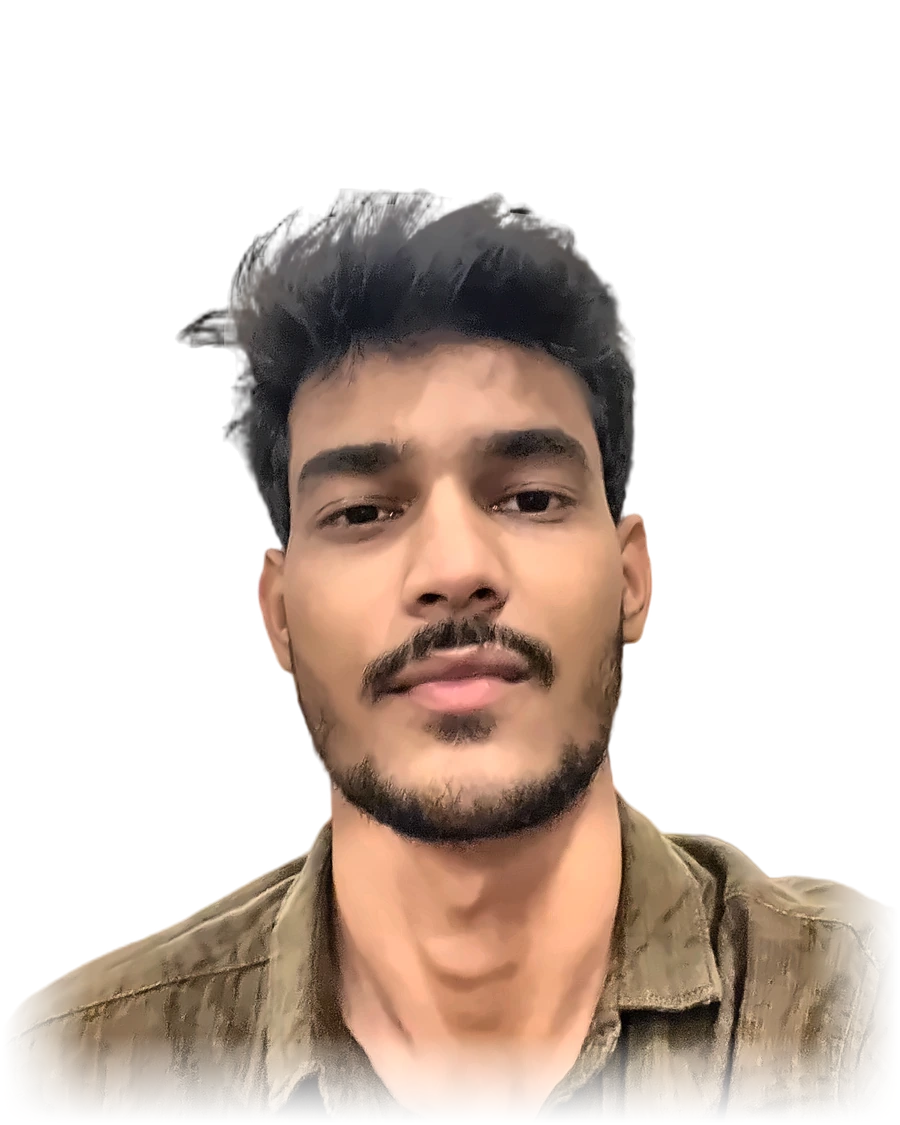
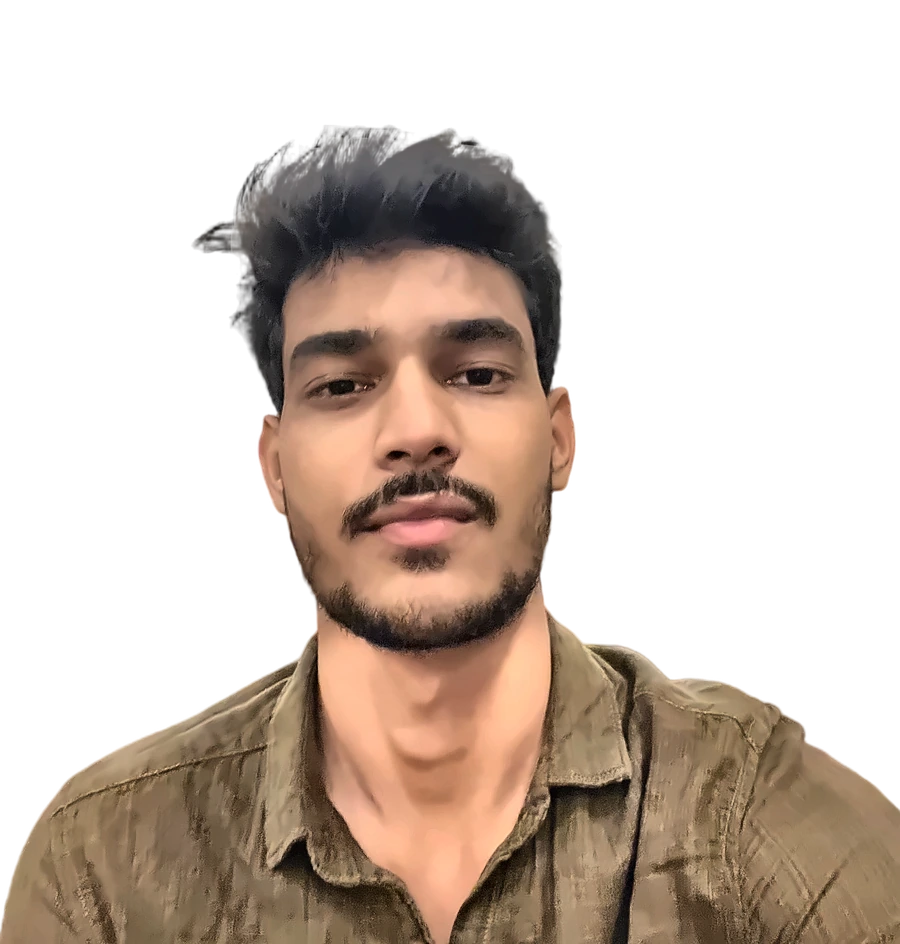
EarthLink on a silver laptop as the top card; plain photo frame
- EarthLink becomes the full-width feature card, showing the Review &
  Pay page from Figma on a 3D silver laptop; DE Medic moves down next
  to DeSafe
- ID photo: no feather or inner shadow, zoomed out, full-width
  shoulders, anchored to the top with space above the hair

Claude-Session: https://claude.ai/code/session_015vB7sMagi9sdtfN8XyE67b

diff --git a/portfolio/assets/css/style.css b/portfolio/assets/css/style.css
@@ -524,9 +524,8 @@ section { scroll-margin-top: 84px; }
 .id-photo {
   position: relative; aspect-ratio: 1 / 1.05; border-radius: 5cqw; overflow: hidden; margin-top: 1cqw;
   background: radial-gradient(circle at 50% 30%, color-mix(in srgb, #fff 45%, var(--accent-2)) 0%, var(--accent-2) 30%, var(--accent) 62%, #2c2899 100%);
-  box-shadow: inset 0 0 0 1px rgba(255, 255, 255, 0.25);
 }
-.id-photo img { position: absolute; left: 8%; bottom: 0; width: 84%; height: auto; filter: drop-shadow(0 6px 10px rgba(20, 16, 70, 0.35)); }
+.id-photo img { position: absolute; inset: 0; width: 100%; height: 100%; object-fit: cover; object-position: 50% 0%; }
 .id-name { margin-top: 1.5cqw; font-size: 8.6cqw; font-weight: 600; line-height: 1.05; letter-spacing: -0.03em; color: var(--fg); }
 .id-role { font-size: 5cqw; font-weight: 500; color: var(--accent); }
 .id-meta { margin: 1cqw 0 0; padding-top: 3cqw; border-top: 1px dashed var(--line-strong); display: grid; grid-template-columns: 1fr 1fr; gap: 2cqw; }
@@ -1352,5 +1351,40 @@ section { scroll-margin-top: 84px; }
 .case-card-feature { grid-column: 1 / -1; grid-template-columns: minmax(0, 1fr) minmax(0, 1.15fr); min-height: 420px; }
 .case-card-feature h3 { font-size: var(--step-3); max-width: 16ch; }
 .case-card-feature .case-desc { font-size: 1rem; max-width: 44ch; }
-.case-card-feature .metal-phone { --w: clamp(170px, 15vw, 220px); right: 30%; top: 40px; }
-@media (max-width: 860px) { .case-card-feature { grid-template-columns: 1fr; } .case-card-feature .metal-phone { right: 18%; } }
+
+/* EarthLink feature card: the checkout page on a silver laptop, tilted in 3D */
+.case-card-feature .case-art { perspective: 1600px; perspective-origin: 20% 30%; }
+.metal-laptop {
+  --w: clamp(420px, 44vw, 640px);
+  position: absolute; left: 4%; top: 46px; width: var(--w);
+  transform-style: preserve-3d; transform-origin: 0% 50%;
+  transform: rotateY(-24deg) rotateX(10deg) rotateZ(3deg);
+  transition: transform 0.9s var(--ease);
+}
+.ml-lid {
+  position: relative; aspect-ratio: 16 / 10.4; padding: calc(var(--w) * 0.018);
+  border-radius: calc(var(--w) * 0.03) calc(var(--w) * 0.03) calc(var(--w) * 0.008) calc(var(--w) * 0.008);
+  background:
+    linear-gradient(90deg, rgba(255, 255, 255, 0.55), transparent 5%, transparent 95%, rgba(255, 255, 255, 0.4)),
+    linear-gradient(135deg, #f8f8fa 0%, #d3d5da 16%, #9a9da4 32%, #eef0f3 48%, #b3b6bc 64%, #e6e8eb 80%, #8c8f96 100%);
+  box-shadow:
+    1px 1px 0 #c6c8cd, 2px 2px 0 #b5b7bc, 3px 3px 0 #a4a6ac, 4px 4px 0 #94969c,
+    inset 0 0 0 1px rgba(255, 255, 255, 0.7), inset 0 0 0 2px rgba(0, 0, 0, 0.15),
+    30px 50px 70px -28px rgba(16, 14, 50, 0.55);
+}
+.ml-screen {
+  position: relative; height: 100%; overflow: hidden; background: #fff;
+  border-radius: calc(var(--w) * 0.012); box-shadow: 0 0 0 calc(var(--w) * 0.01) #0b0b10;
+}
+.ml-screen img { display: block; width: 100%; height: 100%; object-fit: cover; object-position: left top; }
+.ml-screen::after { content: ""; position: absolute; inset: 0; pointer-events: none; background: linear-gradient(118deg, rgba(255, 255, 255, 0.32) 0%, rgba(255, 255, 255, 0.06) 26%, transparent 42%); }
+.ml-base {                                   /* keyboard deck, seen from slightly above */
+  position: relative; height: calc(var(--w) * 0.035); margin: 0 -7%;
+  border-radius: 0 0 calc(var(--w) * 0.04) calc(var(--w) * 0.04);
+  background: linear-gradient(180deg, #eef0f3 0%, #c3c5cb 45%, #8c8f96 100%);
+  box-shadow: 0 18px 30px -12px rgba(16, 14, 50, 0.45);
+}
+.ml-base::before { content: ""; position: absolute; left: 50%; top: 0; width: 16%; height: 38%; transform: translateX(-50%); border-radius: 0 0 8px 8px; background: linear-gradient(180deg, #a9acb2, #d6d8dc); }
+.case-card:hover .metal-laptop { transform: translateY(-10px) rotateY(-14deg) rotateX(6deg) rotateZ(1.5deg); }
+@media (max-width: 860px) { .case-card-feature { grid-template-columns: 1fr; } .case-card-feature .case-art { min-height: 300px; } .metal-laptop { --w: min(560px, 92vw); left: 6%; top: 20px; } }
+@media (max-width: 520px) { .metal-laptop { --w: 340px; } .case-card-feature .case-art { min-height: 230px; } }

diff --git a/portfolio/index.html b/portfolio/index.html
@@ -164,7 +164,21 @@
         <p>Thoughtful design. Measurable impact. Each one told as Who, What, Why and How.</p>
       </div>
       <div class="case-grid">
-        <a class="case-card case-card-feature reveal" href="#demedic">
+        <a class="case-card case-card-feature reveal" href="#earthlink">
+          <div class="case-text">
+            <span class="client"><span class="client-logo has-img"><img src="assets/media/logos/earthlink.webp" alt="" width="100" height="100"></span>EarthLink</span>
+            <h3>Simplifying fiber checkout for a faster purchase.</h3>
+            <p class="case-desc">A faster fiber checkout for a US internet provider. Express pay, one-tap autofill and open date cards cut it from six steps to four.</p>
+            <span class="meta-line"><span class="arrow-btn"><svg class="icon" viewBox="0 0 24 24" aria-hidden="true"><path d="M5 12h14M13 6l6 6-6 6"/></svg></span>Telecom · Web checkout</span>
+          </div>
+          <div class="case-art" aria-hidden="true" style="--glow:#0b86b8">
+            <div class="metal-laptop">
+              <div class="ml-lid"><div class="ml-screen"><img src="assets/media/cards/earthlink-web.webp" alt="" width="1440" height="900" decoding="async"></div></div>
+              <div class="ml-base"></div>
+            </div>
+          </div>
+        </a>
+        <a class="case-card reveal" href="#demedic">
           <div class="case-text">
             <span class="client"><span class="client-logo has-img"><img src="assets/media/logos/demedic.webp" alt="" width="100" height="100"></span>DE Medic</span>
             <h3>Making complex duty swaps simple for doctors.</h3>
@@ -175,19 +189,6 @@
             <div class="metal-phone"><div class="mp-screen"><img src="assets/media/cards/demedic.webp" alt="" width="600" height="1299" decoding="async"></div></div>
           </div>
         </a>
-
-        <a class="case-card reveal" href="#earthlink">
-          <div class="case-text">
-            <span class="client"><span class="client-logo has-img"><img src="assets/media/logos/earthlink.webp" alt="" width="100" height="100"></span>EarthLink</span>
-            <h3>Simplifying fiber checkout for a faster purchase.</h3>
-            <p class="case-desc">A faster fiber checkout for a US internet provider. Express pay, one-tap autofill and open date cards cut it from six steps to four.</p>
-            <span class="meta-line"><span class="arrow-btn"><svg class="icon" viewBox="0 0 24 24" aria-hidden="true"><path d="M5 12h14M13 6l6 6-6 6"/></svg></span>Telecom · Web checkout</span>
-          </div>
-          <div class="case-art" aria-hidden="true" style="--glow:#0b86b8">
-            <div class="metal-phone"><div class="mp-screen"><img src="assets/media/cards/earthlink.webp" alt="" width="600" height="1299" decoding="async"></div></div>
-          </div>
-        </a>
-
         <a class="case-card reveal" href="#desafe">
           <div class="case-text">
             <span class="client"><span class="client-logo has-img"><img src="assets/media/logos/desafe.webp" alt="" width="100" height="100"></span>DeSafe</span>
@@ -199,7 +200,6 @@
             <div class="metal-phone"><div class="mp-screen"><img src="assets/media/cards/desafe.webp" alt="" width="600" height="1299" decoding="async"></div></div>
           </div>
         </a>
-
       </div>
     </div>
   </section>
